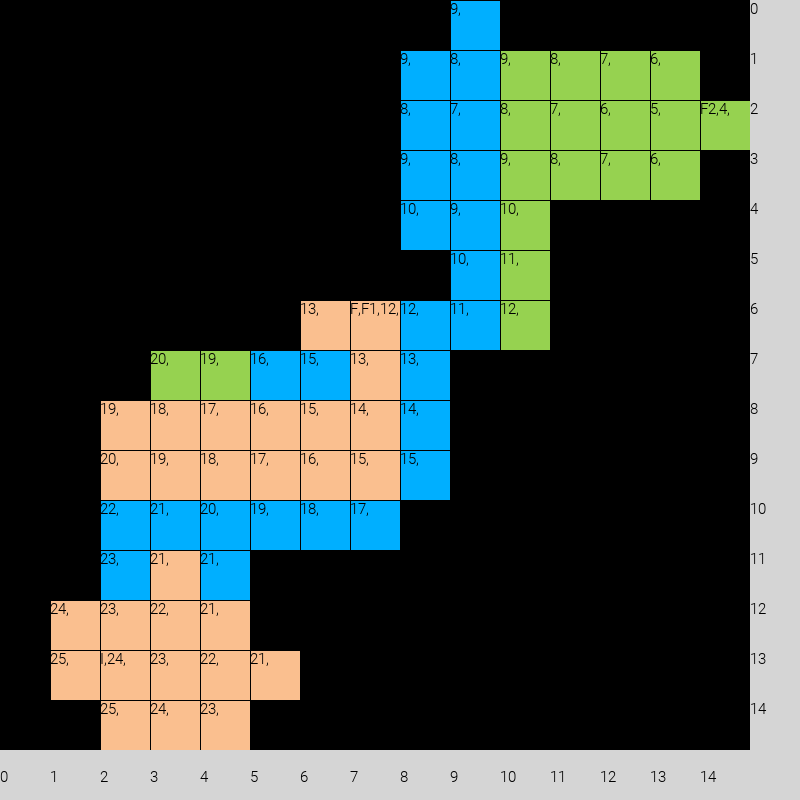
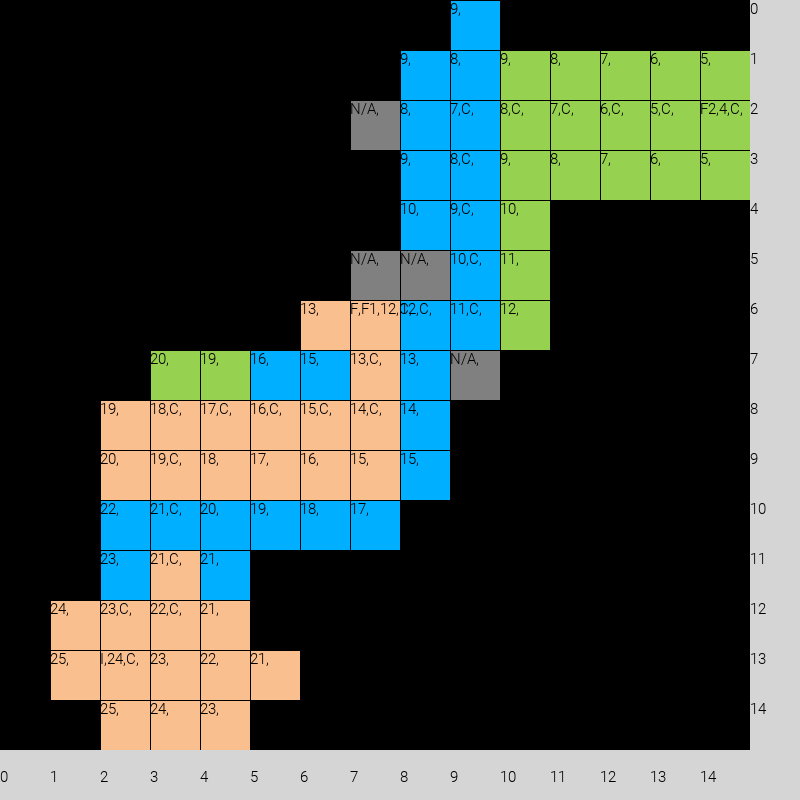
a* v2 facherito correccion de mapa

diff --git a/Proyecto 1/LibsGameV3/MazeAgentV3.2.py b/Proyecto 1/LibsGameV3/MazeAgentV3.2.py
@@ -336,10 +336,7 @@ class Agent(MovsTerrainCosts, Stage, Movement):  # Create the class Agent
         self.TypeAgent = TypeAgent
         # Memory
         self.memoryCells = []
-        # Memory Decisions
-        self.memoryCellsDecisions = []
-        # Optimal Camino
-        self.optimalCamino = []
+        self.cost = 0
 
         MovsTerrainCosts.__init__(self, agent=TypeAgent)
         Stage.__init__(self, textPlain=stageText)
@@ -374,7 +371,11 @@ class Agent(MovsTerrainCosts, Stage, Movement):  # Create the class Agent
             cost = None
         else:
             cost = self.giveCost(coords)
-        if cost == 0 or cost is None:
+        if cost is None:
+            return None, None
+        if cost == 0 and coords[0] < len(self.stageLetras) and coords[1] < len(self.stageLetras):
+            self.unHide(Coords=coords)
+            self.addStageLetras(coords[0], coords[1], f"N/A")
             return None, None
         self.unHide(Coords=coords)
         self.addStageLetras(coords[0], coords[1], f"{distance + cost}")
@@ -475,9 +476,19 @@ class Agent(MovsTerrainCosts, Stage, Movement):  # Create the class Agent
                 if memoriasDeCaminoYCostoYAcumulado[j][len(memoriasDeCaminoYCostoYAcumulado[j]) - 1][1] == FinalPoint:
                     print("Maze Solved!")
                     print(f"Camino:{memoriasDeCaminoYCostoYAcumulado[j]}")
+                    self.memoryCells = memoriasDeCaminoYCostoYAcumulado[j]
+                    self.cost = memoriasDeCaminoYCostoYAcumulado[j][len(memoriasDeCaminoYCostoYAcumulado[j]) - 1][2]
                     print(
                         f"Coste:{memoriasDeCaminoYCostoYAcumulado[j][len(memoriasDeCaminoYCostoYAcumulado[j]) - 1][2]}")
-                    break
+                    copyMem = []
+                    for memory in self.memoryCells:
+                        print(memory)
+                        copyMem.append(memory[1])
+                        self.explorePosition(memoriasDeCaminoYCostoYAcumulado,coords=memory[1],finalCords=FinalPoint)
+                        self.addStageLetras(memory[1][0], memory[1][1], "C")
+                    self.memoryCells = copyMem
+                    self.updateStage()
+                    return
                 else:
                     print(f"Explorando en memoria:{memoriasDeCaminoYCostoYAcumulado[j]}")
                     # Exploracion de los caminos en las ultimas coordenadas de cada camino
@@ -517,8 +528,6 @@ class Agent(MovsTerrainCosts, Stage, Movement):  # Create the class Agent
                 print(f"mem={memoriasDeCaminoYCostoYAcumulado[x]}")
             z += 1
             self.updateStage()
-            if z == 25:
-                break
 
     def unHideActualPosition(self):
         self.unHide(self.ActualCords)
@@ -534,17 +543,9 @@ class Agent(MovsTerrainCosts, Stage, Movement):  # Create the class Agent
     def existsInMemory(self, coords):
         return self.memoryCells.__contains__(coords)
 
-    def addToMemoryDecisions(self, coords):
-        if not self.existsInMemoryDecisions(coords):
-            self.addStageLetras(coords[0], coords[1], "D")
-            self.memoryCellsDecisions.append(coords)
-
-    def existsInMemoryDecisions(self, coords):
-        return self.memoryCellsDecisions.__contains__(coords)
-
     def isValidPosition(self, Coords):
         return 0 <= Coords[0] < len(self.stageLetras) and 0 <= Coords[1] < len(self.stageLetras[0]) \
-               and self.giveCost(Coords) != 0
+               and self.giveCost(Coords) >= 0
 
     def giveCost(self, Coords):
         return self.movsCost[self.cellInfo(Coords=Coords).value]
@@ -571,15 +572,6 @@ class Agent(MovsTerrainCosts, Stage, Movement):  # Create the class Agent
     def updateStage(self):
         self.stageToImage(self.Name)
 
-    def mov(self, destiny):
-        if self.isValidPosition(destiny):
-            self.ActualCords = destiny
-            self.addStageLetras(self.ActualCords[0], self.ActualCords[1], "C")
-            self.unHideActualPosition()
-            self.updateStage()
-            self.addToMemory(self.ActualCords)
-            print(f"{self.ActualCords}.")
-            self.numMovs += 1
 
 
 def readFile(fileName):
